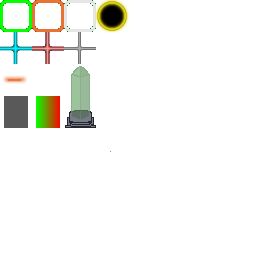
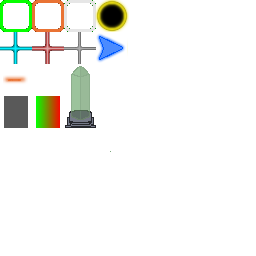
Changed player sprite.

Changed region(s): [[0.375, 0.125, 0.5, 0.25]]

diff --git a/CypherSydekick/src/com/bls220/cyphersidekick/entities/Player.java b/CypherSydekick/src/com/bls220/cyphersidekick/entities/Player.java
@@ -1,6 +1,7 @@
 package com.bls220.cyphersidekick.entities;
 
 import com.badlogic.gdx.Gdx;
+import com.badlogic.gdx.graphics.g2d.TextureRegion;
 import com.badlogic.gdx.maps.MapObject;
 import com.badlogic.gdx.maps.MapProperties;
 import com.badlogic.gdx.maps.tiled.TiledMap;
@@ -29,14 +30,14 @@ public class Player extends Entity implements Living {
 
 	private static final String TAG = "Player";
 
-	public Player(String[] spritePaths, TiledMap map, MapActions actions,
+	public Player(TextureRegion reg, TiledMap map, MapActions actions,
 			World world) {
-		this(spritePaths, map, actions, 0, 0, world);
+		this(reg, map, actions, 0, 0, world);
 	}
 
-	public Player(String[] spritePaths, TiledMap map, MapActions actions,
-			int x, int y, World world) {
-		super(spritePaths[1], x, y, world, "circle");
+	public Player(TextureRegion reg, TiledMap map, MapActions actions, int x,
+			int y, World world) {
+		super(reg, x, y, world, "circle");
 		Gdx.app.log(TAG, String.format("Player spawned at (%d, %d)", x, y));
 		mBody.setFixedRotation(true);
 

diff --git a/CypherSydekick/src/com/bls220/cyphersidekick/screens/MainScreen.java b/CypherSydekick/src/com/bls220/cyphersidekick/screens/MainScreen.java
@@ -237,9 +237,10 @@ public class MainScreen implements Screen, GestureListener, ContactListener {
 		int mapHeight = ((TiledMapTileLayer) map.getLayers().get(0))
 				.getHeight();
 
-		mPlayer = new Player(new String[] { "man_back.png", "man_front.png",
-				"man_right.png", "man_left.png" }, map, acts, mapWidth / 2,
-				mapHeight / 2, MySidekick.getWorld());
+		TextureRegion playerReg = map.getTileSets().getTile(12)
+				.getTextureRegion();
+		mPlayer = new Player(playerReg, map, acts, mapWidth / 2, mapHeight / 2,
+				MySidekick.getWorld());
 
 		camera.position.set(mPlayer.getX() * Entity.TILE_WIDTH, mPlayer.getY()
 				* Entity.TILE_HEIGHT, 0);

diff --git a/CypherSydekick/src/com/bls220/cyphersidekick/mapstuff/level/RandomLevel.java b/CypherSydekick/src/com/bls220/cyphersidekick/mapstuff/level/RandomLevel.java
@@ -113,7 +113,7 @@ public class RandomLevel extends Level {
 			String name = "Anon " + i;
 			String key = "hasKey";
 			if (!usernames.isEmpty()) {
-				name = usernames.get(MathUtils.random(usernames.size()));
+				name = usernames.get(MathUtils.random(usernames.size() - 1));
 				// see if has key
 				key = datasource.getKeyViaUsername(name);
 				usernames.remove(name);
